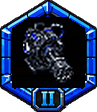
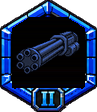
0916x: the chaingun's emblem is a generated chain barrel, in five tier colours
Mike, with a photo of a six-barrel minigun: "chaingun icon should be a chain
barrel icon with lvl1-5 upgrade color variants like our current scheme" /
"something ike, generate it please."

Generated with SpriteCook (gemini-3.1-flash-image, three variations, 36 credits;
the balance is 6,288, not the 22 CLAUDE.md recorded on 0915 - ask the tool). The
variation chosen has its muzzle face square to the viewer, which is what reads at
icon size: six circles in a ring, exactly what the MG badge's own authored emblem
does with its revolver face. The two angled-barrel variations are better pictures
and worse icons.

pixel:true STILL DOES NOT GIVE PIXEL ART - 0905's finding, unchanged. Measured on
opaque pixels only, the plate came back at 656 colours: a continuous-tone render
wearing pixel-art clothes, which would sit inside hand-authored art at a
different fidelity. It is snapped, DITHER OFF, to the palette of micon_mg_4 - the
SILVER tier, the family's own neutral metal, chosen because it has no hue of its
own to inject - taking it to 161.

THE TIER COLOUR IS A HUE ROTATION, NOT A PAINT. Each tier's hue is measured off
THAT BADGE'S OWN RING and the barrel rotated onto it with its VALUE untouched, so
every bevel, muzzle shadow and rim light survives (0906t: rotate, never set).
Measured 0.060 / 0.620 / 0.329 / - / 0.008. Tier 4 is SILVER and reports no hue,
so the barrel is left neutral there rather than rotated onto whatever noise
happens to be brightest in a desaturated ring.
[…]

Changed region(s): [[0.1546, 0.1875, 0.8351, 0.75]]

diff --git a/_BUILD_SOURCE/chaingun_barrel_0916.py b/_BUILD_SOURCE/chaingun_barrel_0916.py
@@ -1,0 +1,166 @@
+#!/usr/bin/env python3
+"""
+chaingun_barrel_0916.py - THE CHAINGUN'S EMBLEM IS A CHAIN BARREL, IN FIVE TIER COLOURS.
+
+    python3 _BUILD_SOURCE/chaingun_barrel_0916.py <generated_barrel.png> [--check]
+
+Mike, 0916, with a reference photo of a six-barrel minigun: "chaingun icon should be a chain barrel
+icon with lvl1-5 upgrade color variants like our current scheme" / "something ike, generate it
+please."
+
+The barrel is GENERATED (SpriteCook, gemini-3.1-flash-image, three variations; the one with the
+muzzle face square to the viewer reads best at icon size, the same way the MG badge's own emblem
+does). Everything after that is this file:
+
+⚠ PALETTE-LOCKED FIRST, BECAUSE `pixel:true` DOES NOT GIVE PIXEL ART. Measured on OPAQUE PIXELS
+ONLY - counting the RGB under transparent pixels is how this gets waved through - the generated
+barrel is **656 colours** against an authored badge's few dozen. Dropped in as-is it is a
+continuous-tone render sitting inside hand-authored pixel art. It is snapped to the palette of
+`micon_mg_4`, the SILVER tier, which is the family's own neutral metal and carries no hue of its
+own to inject.
+
+⚠ THEN THE TIER COLOUR IS A HUE ROTATION, NOT A PAINT. Each tier's hue is measured off THAT
+BADGE'S OWN RING (the family is colour-coded per tier: orange, blue, green, silver, red) and the
+barrel is rotated onto it with its value untouched, so every bevel, muzzle shadow and rim light
+survives. 0906t: rotate the hue, never set it - setting one hue flattens the gradient that makes
+metal read as metal. Tier 4 is SILVER: its ring has no hue to measure, so the barrel is left
+neutral there rather than being rotated onto noise.
+"""
+import os, sys, argparse, colorsys, collections
+from PIL import Image
+
+ROOT = os.path.abspath(os.path.join(os.path.dirname(os.path.abspath(__file__)), '..'))
+ATLAS = os.path.join(ROOT, 'assets', 'game', 'atlas', 'bof_player_weapon_special_icons.png')
+OUT = os.path.join(ROOT, 'docs', 'proofs', 'chaingun_icons_0916')
+DST = os.path.join(ROOT, 'assets', 'game', 'stage5_archmage_0916')
+
+# the SPECIAL family's badges (micon_icebreath_1..5) - the frame donor
+BADGE = {1: (144, 520, 96, 112), 2: (271, 520, 97, 112), 3: (399, 520, 98, 112),
+         4: (527, 520, 97, 112), 5: (654, 520, 99, 112)}
+# the gun family's own badges (micon_mg_1..5) - where each tier's colour is measured
+MGB = {1: (35, 31, 58, 66), 2: (162, 31, 60, 66), 3: (280, 16, 79, 96), 4: (408, 16, 79, 96), 5: (536, 16, 80, 96)}
+
+
+def opaque_colours(im):
+    px = im.convert('RGBA').load()
+    return len({px[x, y][:3] for y in range(im.height) for x in range(im.width) if px[x, y][3] > 8})
+
+
+def palette_of(im):
+    px = im.convert('RGBA').load()
+    c = collections.Counter()
+    for y in range(im.height):
+        for x in range(im.width):
+            p = px[x, y]
+            if p[3] > 8:
+                c[p[:3]] += 1
+    return [k for k, _ in c.most_common()]
+
+
+def snap(im, pal):
+    """nearest-neighbour palette lock, DITHER OFF (dithering a small target sprays checkerboard
+       noise through flat metal and reads as JPEG rot at 2x)"""
+    out = im.copy().convert('RGBA')
+    px = out.load()
+    cache = {}
+    for y in range(out.height):
+        for x in range(out.width):
+            r, g, b, a = px[x, y]
+            if a <= 8:
+                px[x, y] = (0, 0, 0, 0)
+                continue
+            k = (r, g, b)
+            if k not in cache:
+                cache[k] = min(pal, key=lambda c: (c[0] - r) ** 2 + (c[1] - g) ** 2 + (c[2] - b) ** 2)
+            c = cache[k]
+            px[x, y] = (c[0], c[1], c[2], 255 if a > 128 else 0)
+    return out
+
+
+def ring_hue(badge):
+    """the tier's own colour, measured off its ring: the median hue of its saturated pixels, and
+       the saturation that goes with it. A tier whose ring is metal (silver) reports None."""
+    px = badge.convert('RGBA').load()
+    hs, ss = [], []
+    for y in range(badge.height):
+        for x in range(badge.width):
+            p = px[x, y]
+            if p[3] < 8:
+                continue
+            h, s, v = colorsys.rgb_to_hsv(p[0] / 255.0, p[1] / 255.0, p[2] / 255.0)
+            if s > 0.45 and v > 0.25:
+                hs.append(h); ss.append(s)
+    if len(hs) < 40:
+        return None
+    hs.sort(); ss.sort()
+    return (hs[len(hs) // 2], ss[len(ss) // 2])
+
+
+def tint_to(im, hue, sat):
+    """rotate the barrel's hue onto the tier's, keeping VALUE - the bevels and muzzle shadows are
+       what make it read as a barrel and they live in value"""
+    out = im.copy().convert('RGBA')
+    px = out.load()
+    for y in range(out.height):
+        for x in range(out.width):
+            r, g, b, a = px[x, y]
+            if a <= 8:
+                continue
+            h, s, v = colorsys.rgb_to_hsv(r / 255.0, g / 255.0, b / 255.0)
+            # the metal is nearly neutral, so its own hue carries no information: the tier's hue is
+            # applied and the saturation is raised toward the ring's, scaled by how lit the pixel is
+            ns = min(1.0, max(s, sat * (0.35 + 0.45 * v)))
+            r2, g2, b2 = colorsys.hsv_to_rgb(hue, ns, v)
+            px[x, y] = (int(r2 * 255 + .5), int(g2 * 255 + .5), int(b2 * 255 + .5), a)
+    return out
+
+
+def main():
+    ap = argparse.ArgumentParser()
+    ap.add_argument('src')
+    ap.add_argument('--check', action='store_true')
+    a = ap.parse_args()
+    atlas = Image.open(ATLAS).convert('RGBA')
+    gen = Image.open(a.src).convert('RGBA')
+
+    mg4 = atlas.crop((MGB[4][0], MGB[4][1], MGB[4][0] + MGB[4][2], MGB[4][1] + MGB[4][3]))
+    pal = palette_of(mg4)
+    base = snap(gen, pal)
+    print('barrel %dx%d  colours %d -> %d  (locked to micon_mg_4, %d colours)'
+          % (gen.width, gen.height, opaque_colours(gen), opaque_colours(base), len(pal)))
+
+    made = []
+    for t in (1, 2, 3, 4, 5):
+        r = MGB[t]
+        hs = ring_hue(atlas.crop((r[0], r[1], r[0] + r[2], r[1] + r[3])))
+        if hs is None:
+            made.append((t, base.copy(), None))
+            print('  tier %d: no hue in its ring (silver) - the barrel stays neutral' % t)
+        else:
+            made.append((t, tint_to(base, hs[0], hs[1]), hs))
+            print('  tier %d: ring hue %.3f sat %.2f' % (t, hs[0], hs[1]))
+
+    os.makedirs(OUT, exist_ok=True)
+    if a.check:
+        Z = 3; pad = 10
+        W = pad + len(made) * (base.width * Z + pad)
+        H = base.height * Z + pad * 2 + 16
+        card = Image.new('RGBA', (W, H), (28, 30, 38, 255))
+        from PIL import ImageDraw
+        d = ImageDraw.Draw(card); x = pad
+        for t, im, hs in made:
+            card.alpha_composite(im.resize((im.width * Z, im.height * Z), Image.NEAREST), (x, pad))
+            d.text((x + 4, pad + im.height * Z + 2), 'tier %d' % t, fill=(255, 220, 150, 255))
+            x += im.width * Z + pad
+        p = os.path.join(OUT, '04_barrel_tiers.png')
+        card.save(p); print('--check: wrote', os.path.relpath(p, ROOT))
+        return
+
+    for t, im, _ in made:
+        p = os.path.join(DST, 'chaingun_barrel_%d.png' % t)
+        im.save(p)
+        print('wrote', os.path.relpath(p, ROOT))
+
+
+if __name__ == '__main__':
+    main()

diff --git a/_BUILD_SOURCE/chaingun_icons_0916.py b/_BUILD_SOURCE/chaingun_icons_0916.py
@@ -259,9 +259,20 @@ def build(tier, atlas):
     mask = mask.filter(ImageFilter.MinFilter(3))       # keep off the ring's inner bevel
     cleared = clear_interior(badge, mask, None)
 
-    gun = emblem(drop_tag(Image.open(os.path.join(ARCH, 'chaingun_icon_%d.pre0916.png' % tier)
-                          if os.path.exists(os.path.join(ARCH, 'chaingun_icon_%d.pre0916.png' % tier))
-                          else os.path.join(ARCH, 'chaingun_icon_%d.png' % tier)).convert('RGBA')))
+    # ⚠ THE EMBLEM IS THE CHAIN BARREL NOW (Mike, 0916, with a photo of a six-barrel minigun:
+    #    "chaingun icon should be a chain barrel icon with lvl1-5 upgrade color variants like our
+    #    current scheme"). chaingun_barrel_N.png is built by chaingun_barrel_0916.py - generated,
+    #    palette-locked to the family's own silver badge, then hue-rotated onto THAT TIER'S ring
+    #    colour. It carries no tag of its own, so drop_tag/emblem are not run over it: their job was
+    #    to cut the old sprite's blue numeral off, and the barrel's own profile would be misread as
+    #    one. The old sprite stays as the fallback.
+    _b = os.path.join(ARCH, 'chaingun_barrel_%d.png' % tier)
+    if os.path.exists(_b):
+        gun = trim(Image.open(_b).convert('RGBA'))
+    else:
+        gun = emblem(drop_tag(Image.open(os.path.join(ARCH, 'chaingun_icon_%d.pre0916.png' % tier)
+                              if os.path.exists(os.path.join(ARCH, 'chaingun_icon_%d.pre0916.png' % tier))
+                              else os.path.join(ARCH, 'chaingun_icon_%d.png' % tier)).convert('RGBA')))
     bb = mask.getbbox()
     iw, ih = bb[2] - bb[0], bb[3] - bb[1]
     tw, th = int(iw * 0.88), int(ih * 0.88)

diff --git a/docs/CHAINGUN_ICONS_0916.md b/docs/CHAINGUN_ICONS_0916.md
@@ -24,8 +24,9 @@ search the existing art first. Both halves already existed:
 
 - the **frame and its tier tag** are `micon_icebreath_N` — tier N's own badge, so the ring, the
   Roman numeral and the size progression are the authored ones;
-- the **emblem** is the chaingun art already shipping in `chaingun_icon_N`, which was always the
-  good part of those files. It is cut out, fitted to the interior and re-seated.
+- the **emblem** was the chaingun art already shipping in `chaingun_icon_N`, cut out and re-seated.
+  **Superseded by §4:** Mike asked for a chain BARREL, so the emblem is now a generated one and
+  those sprites are the fallback. The frame work below is unchanged and is what §4 seats it in.
 
 The old files are kept as `chaingun_icon_N.pre0916.png`; nothing was overwritten.
 
@@ -76,7 +77,38 @@ can only be one colour, so it takes the violet the two mix to.
 **Two he did not name, flagged rather than guessed silently:** MISSILE is grouped with the bullets
 as kinetic ordnance, and LASER keeps the default green. Say the word and either moves.
 
-## 4. Measured
+## 4. The emblem is a chain barrel, in five tier colours
+
+Mike, with a photo of a six-barrel minigun: *"chaingun icon should be a chain barrel icon with
+lvl1-5 upgrade color variants like our current scheme"* / *"something ike, generate it please."*
+
+**The barrel is GENERATED** — SpriteCook, `gemini-3.1-flash-image`, three variations, 36 credits
+(balance 6,324 → 6,288; CLAUDE.md's "22 left" note was stale). The one chosen has its muzzle face
+square to the viewer, which is what reads at icon size — the same thing the MG badge's own emblem
+does with its revolver face.
+
+⚠ **PALETTE-LOCKED FIRST, BECAUSE `pixel:true` DOES NOT GIVE PIXEL ART.** Measured on opaque pixels
+only — counting the RGB under transparent pixels is how this gets waved through — the generated
+barrel is **656 colours**. It is a continuous-tone render wearing pixel-art clothes, and dropped in
+as-is it sits inside hand-authored art at a different fidelity. It is snapped, **dither off**, to
+the palette of `micon_mg_4` — the SILVER tier, the family's own neutral metal, which has no hue of
+its own to inject. **656 → 161 colours.**
+
+⚠ **THEN THE TIER COLOUR IS A HUE ROTATION, NOT A PAINT.** Each tier's hue is measured off **that
+badge's own ring** (the family is colour-coded per tier) and the barrel is rotated onto it with its
+VALUE untouched, so every bevel, muzzle shadow and rim light survives — 0906t: rotate the hue,
+never set it. Measured: tier 1 hue 0.060, tier 2 0.620, tier 3 0.329, tier 5 0.008. **Tier 4 is
+silver: its ring has no hue to measure, so the barrel is left neutral rather than rotated onto
+noise.**
+
+The barrels ship as `chaingun_barrel_1..5.png` beside the badges, so the emblem can be re-tinted or
+replaced without touching the frame work. The pre-0916 sprites remain as the fallback.
+
+Builder: `_BUILD_SOURCE/chaingun_barrel_0916.py` (`--check` renders the five tiers without writing).
+Proof: `docs/proofs/chaingun_icons_0916/03_generated.png` (the three variations),
+`04_barrel_tiers.png` (the five colours), `01_new_icons.png` (was / donor / now).
+
+## 5. Measured
 
 `_BUILD_SOURCE/probe_unlocks_0916.py` — **66 ok / 0 fail**, real Chromium, 0 page or console
 errors. It checks the table *and* the pixels: one row per element driven through the page's own

diff --git a/CLAUDE.md b/CLAUDE.md
@@ -4639,3 +4639,24 @@ exactly why the two must be read differently. (It was also asked cold: `XART.rdy
 first call.)
 `probe_unlocks_0916.py` 66/0, 0 errors - the table AND the pixels, one row per element read back off
 the canvas. Suite 4,628 ok / 56 fail, no new names. `docs/CHAINGUN_ICONS_0916.md`.
+
+## 0916 - the chaingun's emblem is a GENERATED chain barrel, in five tier colours
+
+Mike, with a photo of a six-barrel minigun: *"chaingun icon should be a chain barrel icon with lvl1-5
+upgrade color variants like our current scheme"*.
+
+**SpriteCook, three variations, 36 credits** - and the balance is **6,288**, not the 22 this file
+recorded on 0915. Do not plan around that number; ask `get_credit_balance`.
+⚠ **THE VARIATION THAT READS AT ICON SIZE IS THE ONE WITH THE MUZZLE FACE SQUARE TO THE VIEWER** -
+six circles in a ring, which is exactly what the MG badge's own authored emblem does with its
+revolver face. The two angled-barrel variations are better pictures and worse icons.
+⚠ **`pixel:true` STILL DOES NOT GIVE PIXEL ART** (0905's finding, unchanged): the plate came back at
+**656 opaque colours**. It is snapped, DITHER OFF, to the palette of `micon_mg_4` - the SILVER tier,
+the family's own neutral metal, chosen because it has no hue of its own to inject - which takes it to
+**161**.
+⚠ **AND THE TIER COLOUR IS A HUE ROTATION MEASURED OFF EACH BADGE'S OWN RING** (0.060 / 0.620 /
+0.329 / - / 0.008), with VALUE untouched so the bevels and muzzle shadows survive. **Tier 4 is
+silver and reports NO hue, so the barrel is left neutral there** rather than rotated onto noise -
+a hue measured from a desaturated ring is whatever noise happens to be brightest.
+`chaingun_barrel_0916.py` builds the barrels; `chaingun_icons_0916.py` seats them in the badges.
+Probe 66/0. `docs/CHAINGUN_ICONS_0916.md` §4.
